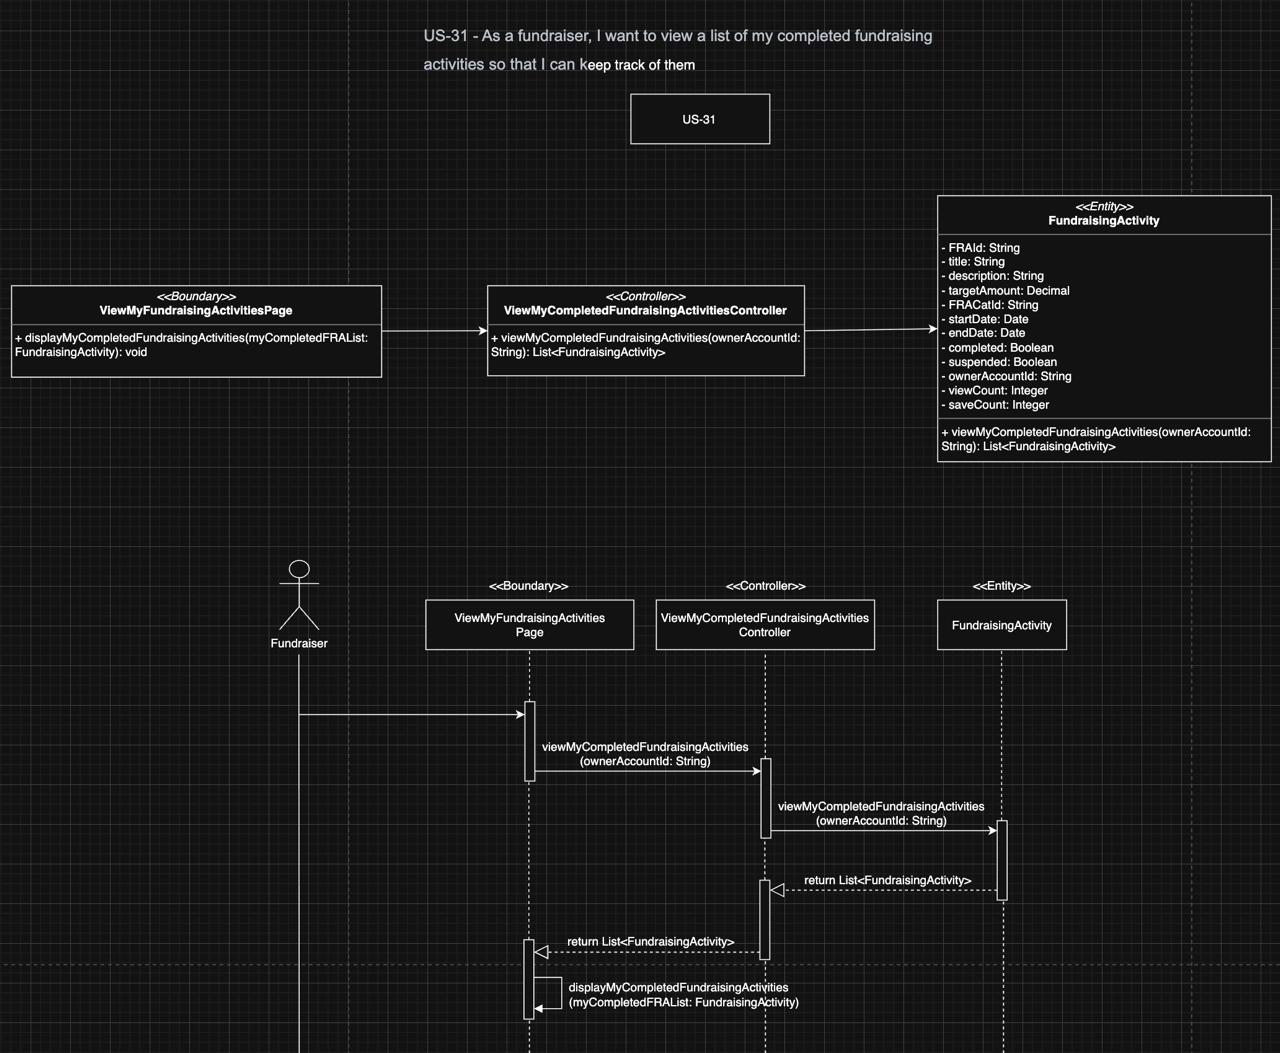
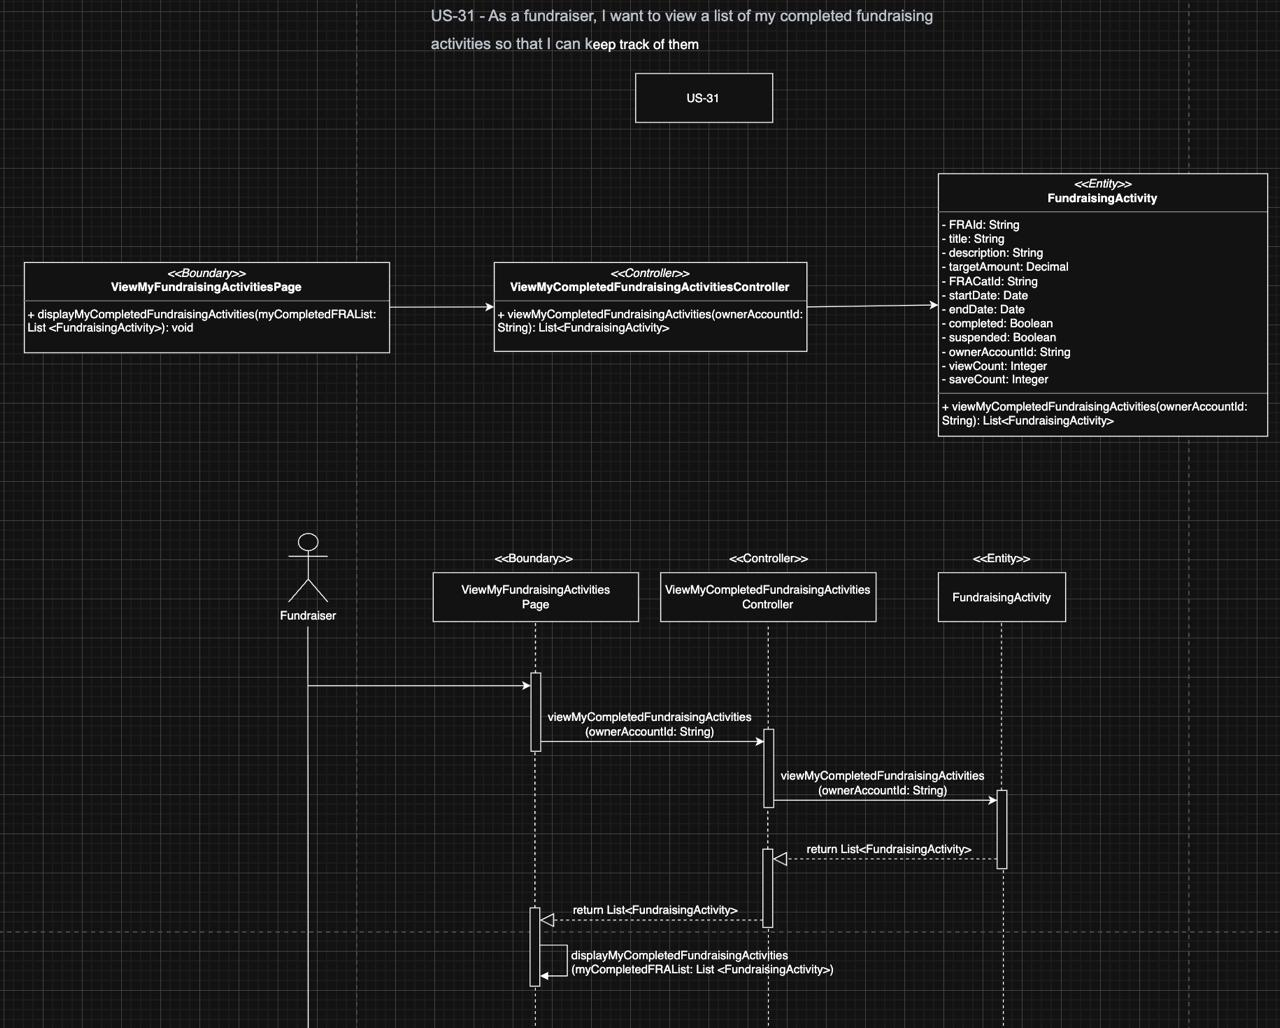
diagrams: re-export US-31 with List<…> wrapper restored
User dropped an updated US-31 diagram. Param type on the boundary
method goes from `myCompletedFRAList: FundraisingActivity` (was missing
the `List<…>` wrapper — flagged in audit.md) to
`myCompletedFRAList: List<FundraisingActivity>` on both the class
diagram and sequence diagram. Closes the last open "Pure diagram
typos / gaps" item.

No code change — code has been passing a list all along.

- diagrams/sprint-3_diagrams/US-31.jpg replaced
- audit.md: drop the per-US drift marker on US-31 + the bottom "Pure
  diagram typos" bullet for it; add a Resolved entry; bump the
  Last-refreshed stamp.
- diagram_typos.md: extend the existing US-31 resolution note to
  cover the param-type fix.

diff --git a/docs/audit.md b/docs/audit.md
@@ -4,7 +4,7 @@ Transcription of the Boundary / Controller / Entity surface for every user story
 
 Each layer lists what the **diagram** says, then the matching `Code →` identifier + file path showing what's actually implemented (in `snake_case`). Where a `Code →` line shows a different class or method name than the diagram, that's a drift — collected at the bottom of this file.
 
-*Last refreshed: 2026-05-18, after the US-15 unpack-fields refactor, US-22/US-23 success-message persistence fix, US-28/US-29 boundary-placement rewire, and the US-28/US-29 diagram re-export (`category: String` → `FRACatId: String`) all landed.*
+*Last refreshed: 2026-05-18, after the US-15 unpack-fields refactor, US-22/US-23 success-message persistence fix, US-28/US-29 boundary-placement rewire, US-28/US-29 diagram re-export (`category: String` → `FRACatId: String`), and US-31 diagram re-export (`myCompletedFRAList: List<FundraisingActivity>` wrapper restored) all landed.*
 
 Conventions:
 - Class names are taken verbatim from the diagrams (so `category` vs `FRACatId` reflects the diagram as drawn).
@@ -343,7 +343,6 @@ Conventions:
 - **Entity:** `FundraisingActivity` *(attrs as US-13)*
   - `viewMyCompletedFundraisingActivities(ownerAccountId: String): List<FundraisingActivity>`
   - Code → `FundraisingActivity.view_my_completed_fundraising_activities(owner_account_id)` in [entity/fundraising_activity.py](../entity/fundraising_activity.py) — filter is `WHERE end_date < ?` (today), not a stored `completed` flag (post-2026-05-18 refactor)
-- ⚠️ **Diagram typo:** the boundary method's parameter type reads `myCompletedFRAList: FundraisingActivity` — missing the `List<…>` wrapper. Code passes a list.
 
 ## US-32 — Search my donation history *(Donee)*
 - **Boundary:** `ViewMyDonationHistoriesPage`
@@ -478,7 +477,7 @@ Conventions:
 ## Observed drifts (worth a [diagram_typos.md](diagram_typos.md) entry)
 
 ### Pure diagram typos / gaps
-- **US-31 boundary method** — `displayMyCompletedFundraisingActivities(myCompletedFRAList: FundraisingActivity)` is missing the `List<…>` wrapper on the parameter type.
+*(All known diagram typos are now resolved — see "Resolved during this audit" below.)*
 
 ### Code-side singular/plural class-name drifts (controller stays a pure delegator, no behaviour change)
 Diagram uses the plural form of the entity in the controller class name, code uses the singular. Either rename the code or correct the diagrams — picking one direction would unify the convention.
@@ -490,6 +489,7 @@ Diagram uses the plural form of the entity in the controller class name, code us
 - **US-37:** diagram `SearchFundraisingActivityCategoriesController` → code `SearchFundraisingActivityCategoryController`
 
 ### Resolved during this audit
+- ~~**US-31 boundary method param type missing the `List<…>` wrapper**~~ **Resolved 2026-05-18.** Re-exported diagram now types the param as `myCompletedFRAList: List<FundraisingActivity>` on both the class and sequence diagrams, matching the controller return type. Code was already passing a list — no code change needed.
 - ~~**US-28 / US-29 entity attribute drift (`category: String` instead of `FRACatId: String`)**~~ **Resolved 2026-05-18.** Re-exported diagrams now type the entity attribute as `FRACatId: String`, matching the rest of the post-2026-05-18 FRA class diagrams (US-13/14/15/17/20/21/30/31). Code was already on `fra_cat_id` — no code change needed.
 - ~~**US-15 signature-shape drift**~~ **Resolved 2026-05-18.** Code now takes the 6 unpacked fields exactly as the diagram defines: `update_my_fundraising_activity(owner_account_id, fra_id, title, description, target_amount, fra_cat_id, start_date, end_date)`. The previous `updated_my_fra: FundraisingActivity` parameter is gone. As a side effect, `completed` and `suspended` are no longer settable through update — `completed` is now a derived `@property` on the entity (`end_date < today`), and `suspended` is owned by US-16 / Exception A unsuspend. The `completed` column was dropped from the schema.
 - ~~**US-28 / US-29 boundary placement**~~ **Resolved 2026-05-18.** Diagram puts both count-display methods on `ViewMyFundraisingActivityPage` (fundraiser-only); code had them on `ViewFundraisingActivityPage` (donee detail) with a code-only owner-gate, and the consolidated `ManageMyFundraisingActivityPage` was reading `activity.view_count` / `activity.save_count` directly off the dataclass — bypassing the diagram-defined controllers entirely. After the rewire: the per-US `ViewMyFundraisingActivityPage` renders the metrics via `ViewFundraisingActivityViewCountController` + `ViewFundraisingActivitySaveCountController`; the donee-side detail (`ViewFundraisingActivityPage` + shared `render_activity_detail` helper) no longer renders the counts at all; the consolidated `ManageMyFundraisingActivityPage` now calls the same controllers (Exception C: same call chain as the per-US page).

diff --git a/docs/diagram_typos.md b/docs/diagram_typos.md
@@ -40,7 +40,7 @@ Diagrams: [diagrams/sprint-3_diagrams/](../diagrams/sprint-3_diagrams/).
 - ~~**[US-25.jpg](../diagrams/sprint-3_diagrams/US-25.jpg) boundary class:** named `ViewFundraisingActivitiesPage` — collides with the Sprint 2 US-20 boundary.~~ **Resolved 2026-05-16 / further 2026-05-17.** Re-exported diagram now names the boundary `ViewFavouriteListPage` (shared with US-23 + US-24); code's per-US `SearchFavouritePage` retired and the US-25 search method merged into `boundary/view_favourite_list_page.py` (mirrors US-14/17 and US-30/31 patterns).
 - ~~**[US-30.jpg](../diagrams/sprint-3_diagrams/US-30.jpg) boundary class collision:** class + sequence diagrams name the boundary `ViewMyFundraisingActivitiesPage`~~ **Resolved 2026-05-16 / further 2026-05-17 / final 2026-05-18.** The 2026-05-18 diagram explicitly places US-30 on `ViewMyFundraisingActivitiesPage` (shared with US-17 and US-31) — same as the original 2026-05-16 collision said, except now intentional. Code follows: the interim `ViewMyCompletedFundraisingActivitiesPage` (created 2026-05-17) retired; US-17 + US-30 + US-31 all live on `boundary/view_my_fundraising_activities_page.py` with an `[All]` / `[Completed]` tab toggle (matches the sketch design).
 - ~~**[US-30.jpg](../diagrams/sprint-3_diagrams/US-30.jpg) `searchMyCompletedFRA` parameter order:**~~ **Resolved 2026-05-16.** Diagram now signs the method `searchMyCompletedFRA(ownerAccountId, searchCriteria)` (owner first), matching every other owner-scoped method.
-- ~~**[US-31.jpg](../diagrams/sprint-3_diagrams/US-31.jpg) per-id detail vs list semantics**~~ **Resolved 2026-05-17 / boundary moved 2026-05-18.** 2026-05-17 reframed the method to list semantics (`viewMyCompletedFundraisingActivities(owner): List<FundraisingActivity>`). 2026-05-18 moves the boundary from `ViewMyCompletedFundraisingActivitiesPage` to `ViewMyFundraisingActivitiesPage` (shared with US-17 + US-30). Code follows.
+- ~~**[US-31.jpg](../diagrams/sprint-3_diagrams/US-31.jpg) per-id detail vs list semantics**~~ **Resolved 2026-05-17 / boundary moved 2026-05-18 / param type fixed 2026-05-18.** 2026-05-17 reframed the method to list semantics (`viewMyCompletedFundraisingActivities(owner): List<FundraisingActivity>`). 2026-05-18 moves the boundary from `ViewMyCompletedFundraisingActivitiesPage` to `ViewMyFundraisingActivitiesPage` (shared with US-17 + US-30). Late on 2026-05-18 the boundary method param type was also fixed from `myCompletedFRAList: FundraisingActivity` (missing the `List<…>` wrapper) to `myCompletedFRAList: List<FundraisingActivity>` on both class + sequence diagrams. Code follows.
 - ~~**[US-23.jpg](../diagrams/sprint-3_diagrams/US-23.jpg) boundary class (round 2)**~~ **Resolved 2026-05-18.** The 2026-05-18 export moves US-23's boundary from `ViewFavouriteListPage` to `ViewFundraisingActivityPage` — the donee removes-from-favourites on the activity detail page (symmetric with US-22 Save on the same page; parallel to US-15 Update + US-16 Suspend on `ViewMyFundraisingActivityPage`). Code follows: `[Remove from favourites]` button now lives on the activity detail page, conditionally shown when the activity is already favourited. `ViewFavouriteListPage` and the consolidated `MyFavouritesPage` no longer render per-row Remove buttons.
 - ~~**[US-33.jpg](../diagrams/sprint-3_diagrams/US-33.jpg) per-id detail vs list semantics**~~ **Resolved 2026-05-18.** The 2026-05-18 diagram reframes US-33 from per-id detail (`viewMyDonationHistory(accountId, donationId): Donation`) to list semantics (`viewMyDonationHistories(accountId): List<Donation>`); boundary `ViewMyDonationHistoryPage` (singular) → `ViewMyDonationHistoriesPage` (plural, shared with US-32). Same shape as the US-31 reframe. Code follows: old per-id method + controller + boundary deleted; new list method + controller; the Exception A `Donation.view_my_donations` is retired (was the picker; now replaced by the diagram-defined list method).
 - ~~**[US-36.jpg](../diagrams/sprint-4_diagrams/US-36.jpg) signature flatten**~~ **Resolved 2026-05-18.** The 2026-05-18 diagram changes `updateFundraisingActivityCategory(FRACatId, updatedFRACategory: FundraisingActivityCategory)` → `updateFundraisingActivityCategory(FRACatId, categoryName, description)` — direct field params instead of a wrapping entity object. `suspended` is no longer settable via this method (US-38 handles suspend/unsuspend separately). Code follows.